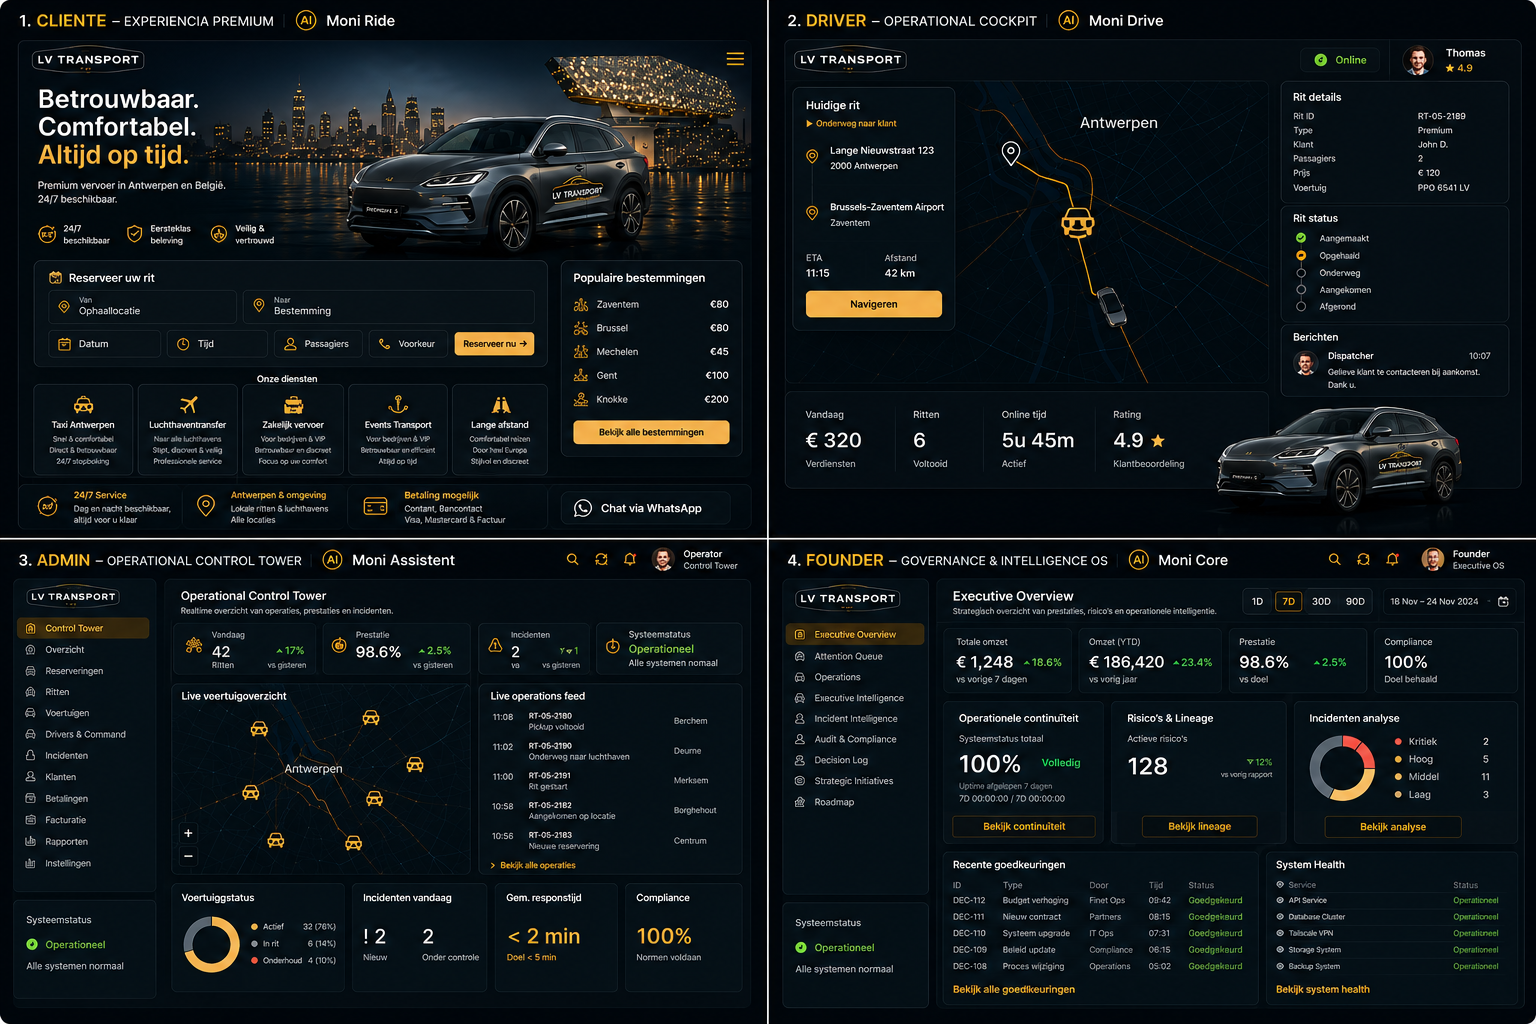
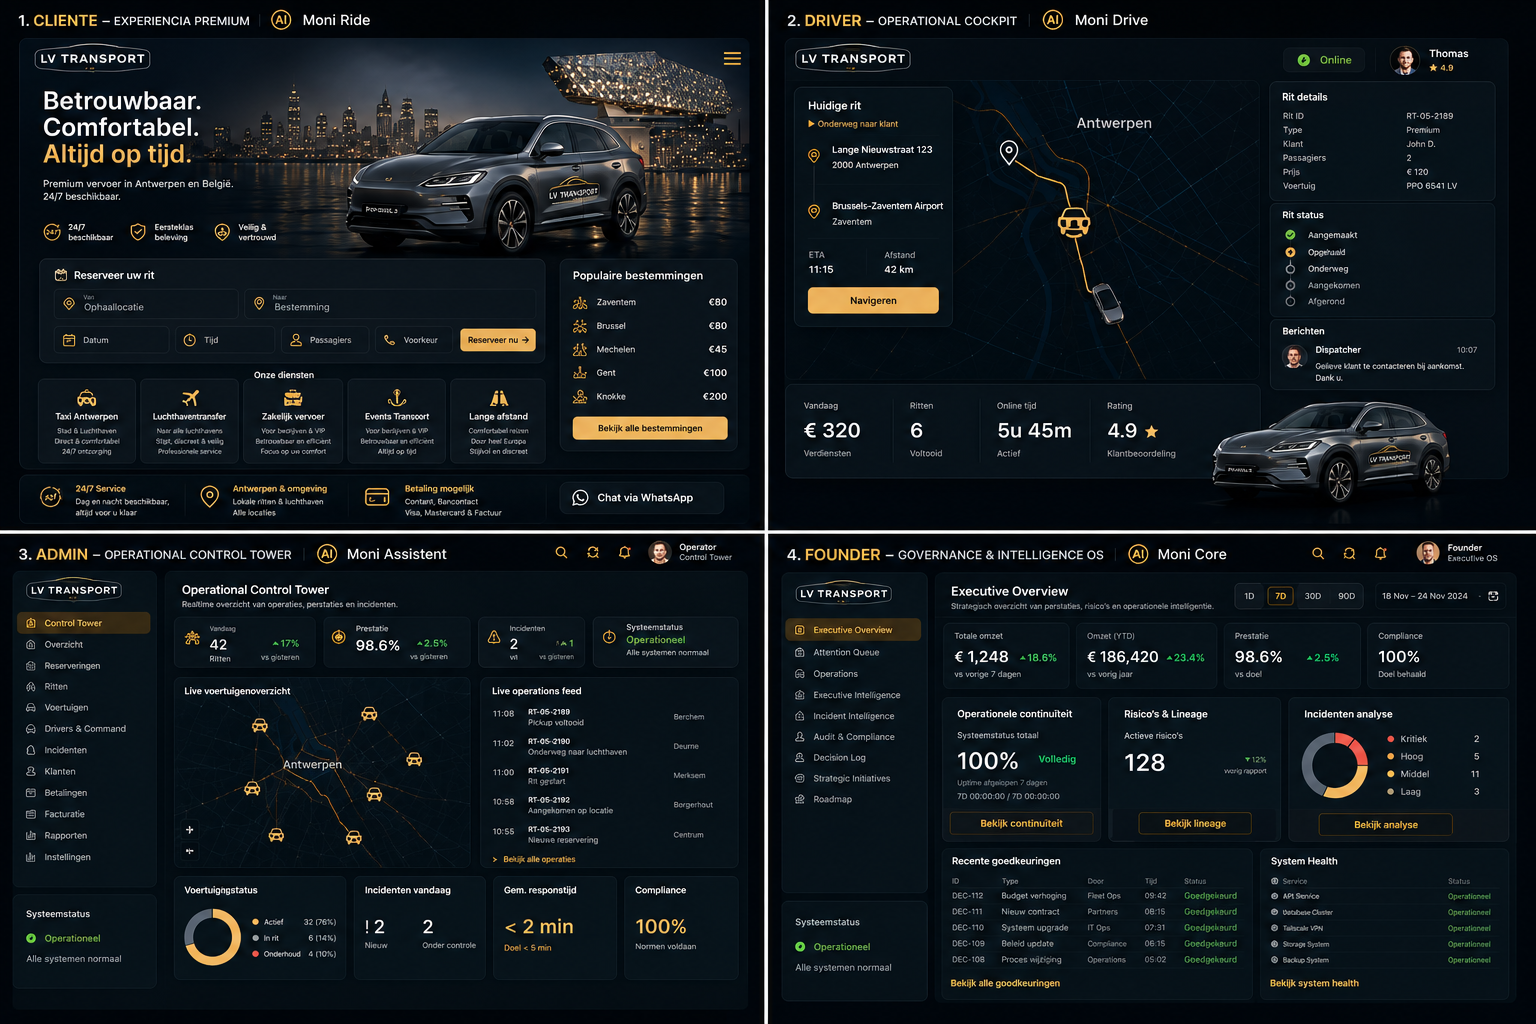
Retire obsolete LV Transport OS mockup and add approved design references

diff --git a/apps/web/src/pages/PublicHome.tsx b/apps/web/src/pages/PublicHome.tsx
@@ -1,4 +1,4 @@
-import HeroSection from './home/HeroSection';
+import HeroSection from './home/HeroSection.jsx';
 import { LiveMoniAssistant } from '../modules/moni/components/LiveMoniAssistant';
 
 export default function PublicHome() {

diff --git a/docs/design/README.md b/docs/design/README.md
@@ -1,0 +1,12 @@
+# Referencias visuales de LVTransport
+
+- [Portal aprobado en el Fossibot](lvtransport-portal-fossibot.png). Captura
+  de la app instalada de `https://lvtransport.be`, con la portada
+  «Uw taxi, met zorg geregeld.» y el acceso público a la reserva.
+- [Prototipo de las cuatro apps](lvtransport-four-pages-reference.png).
+  Referencia visual de Ride, Drive, Control Tower y Founder OS. Las cifras,
+  ubicaciones y estados ilustrados son ejemplos del diseño.
+
+Portal es la entrada pública. Ride, Drive, Control Tower y Founder OS son
+las cuatro apps representadas en el prototipo. La maqueta antigua de tarjetas
+«LV TRANSPORT OS» fue retirada del código web.
